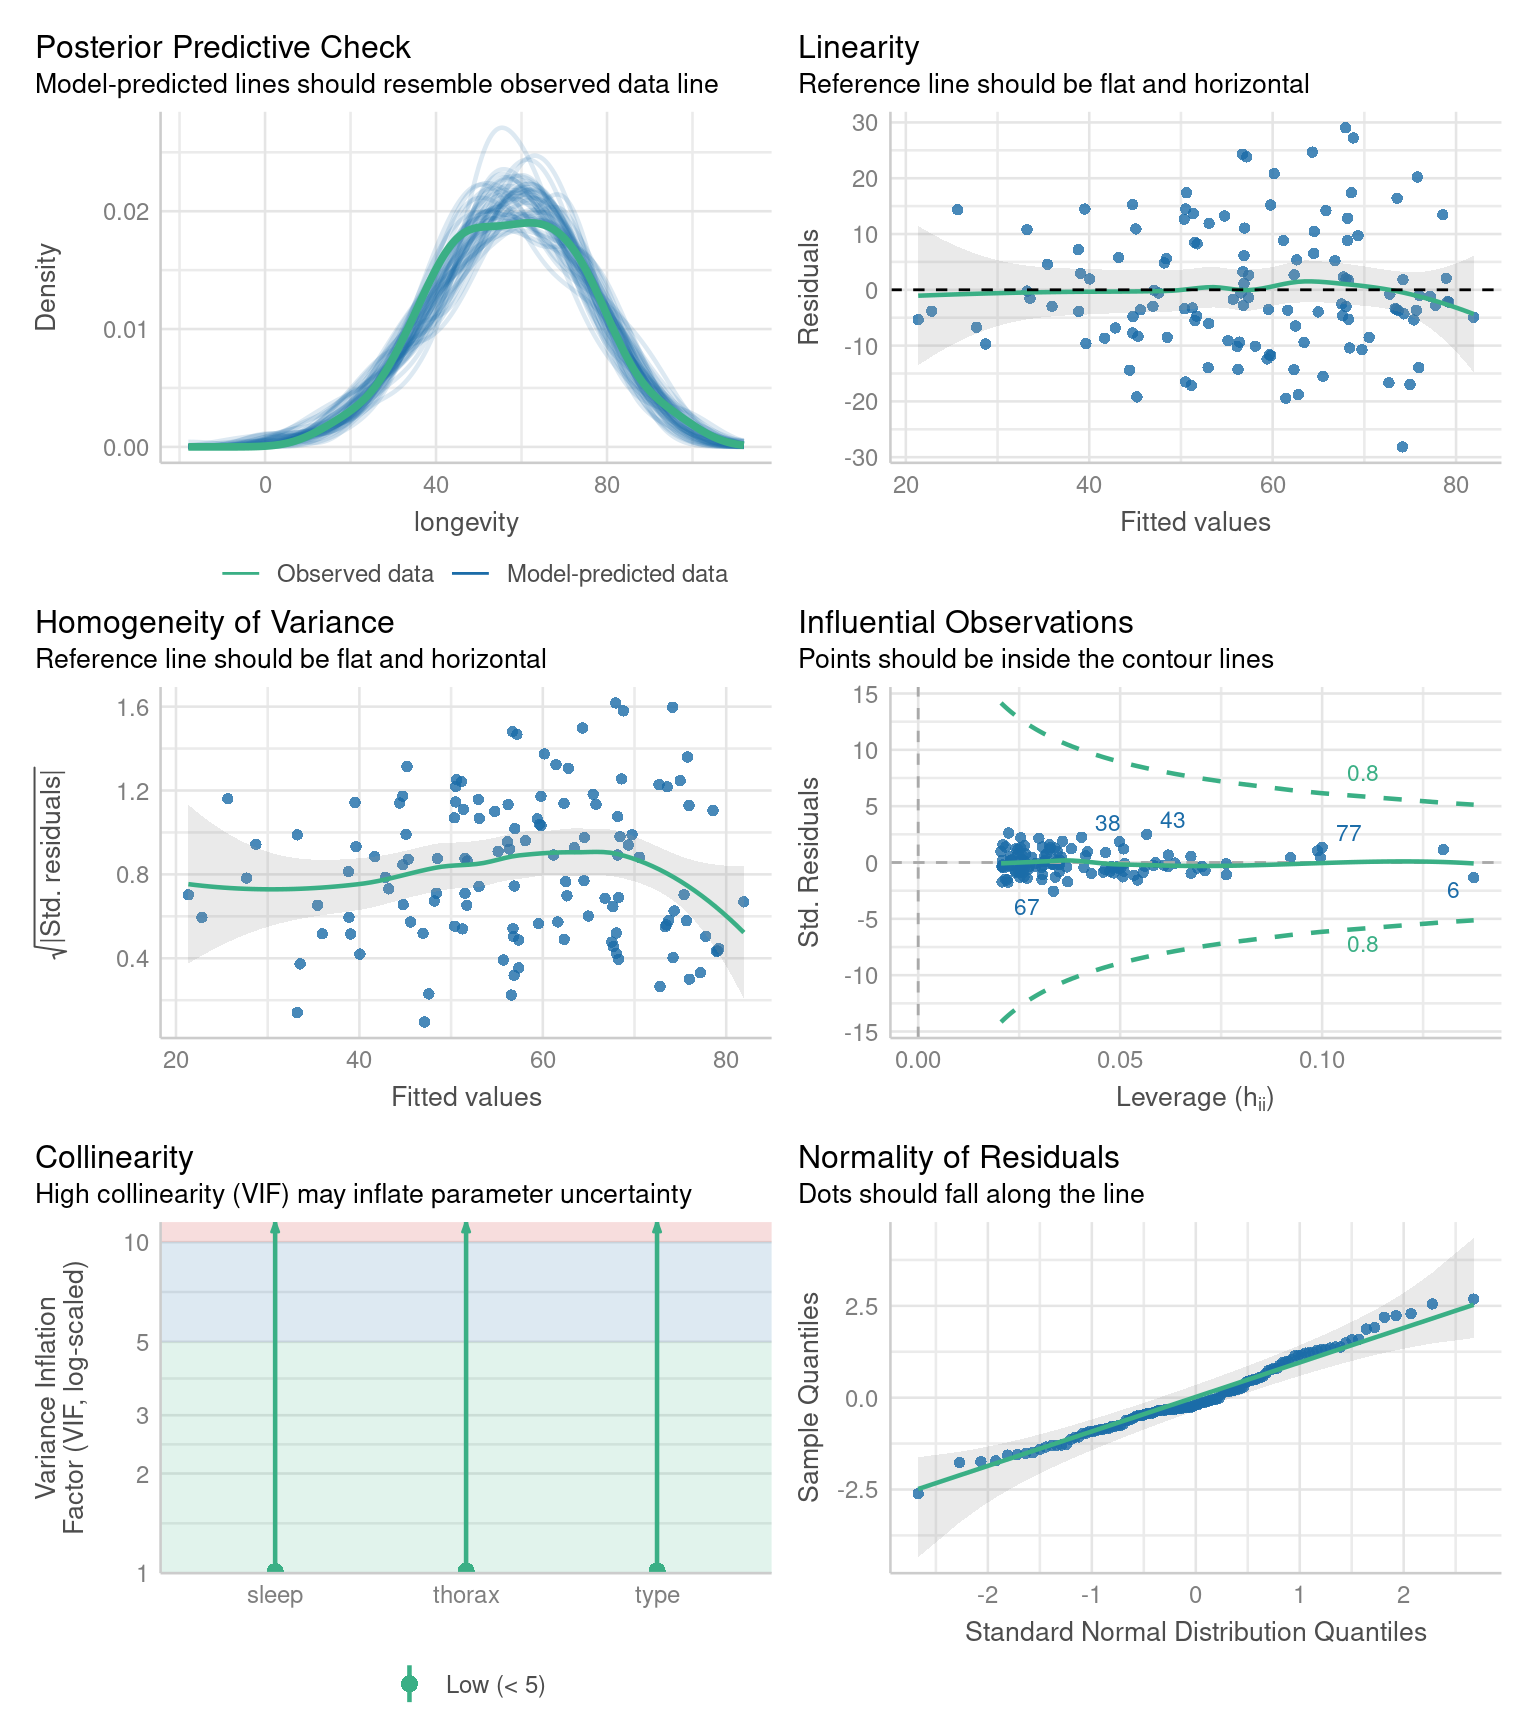
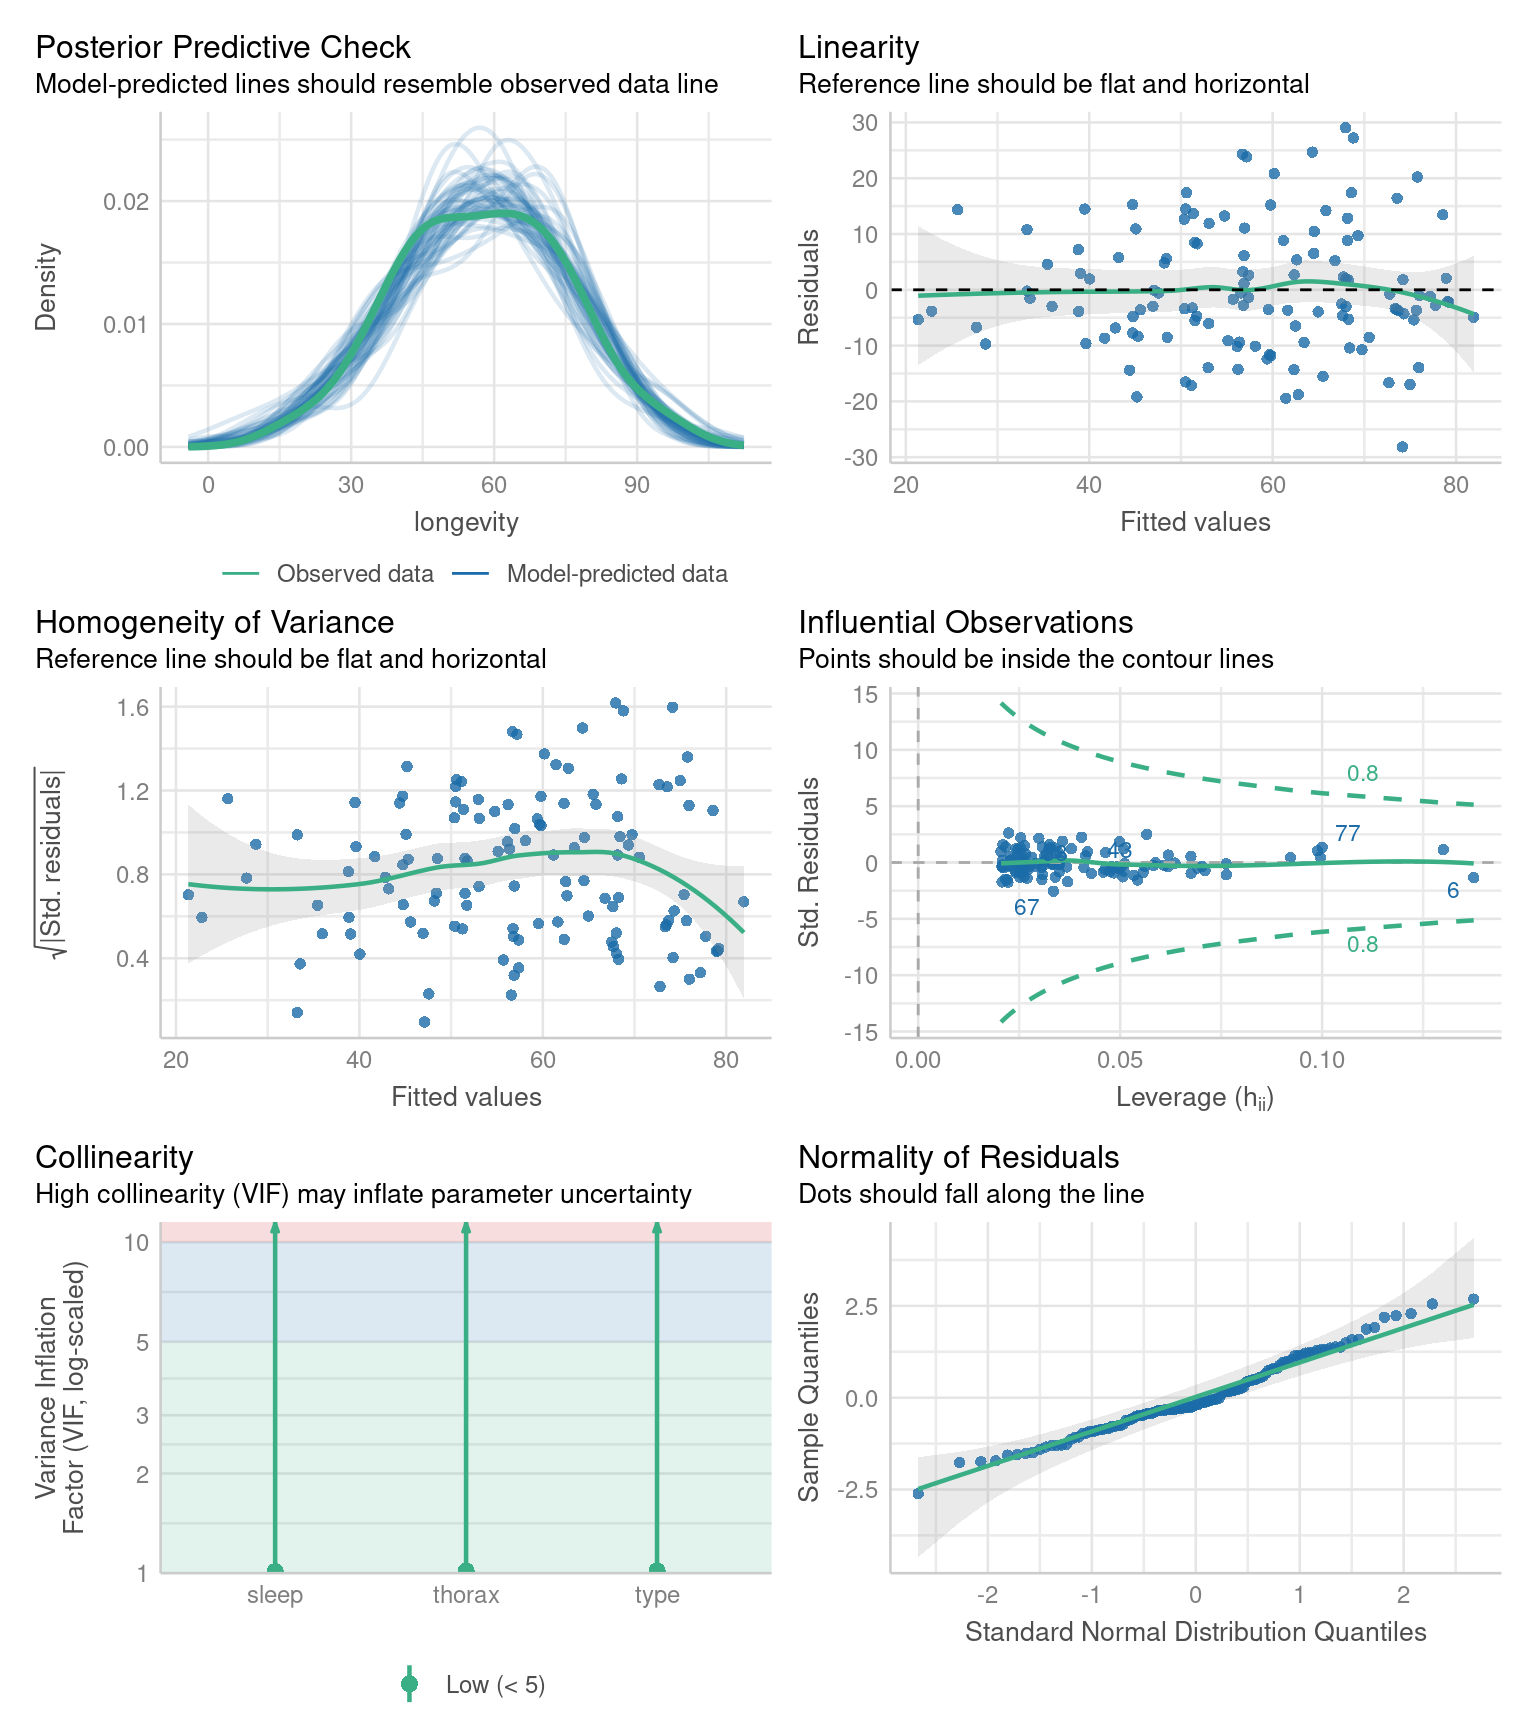
remove unnecessary packages

diff --git a/docs/14-complex-models.html b/docs/14-complex-models.html
@@ -582,12 +582,10 @@ pre > code.sourceCode > span > a:first-child::before { text-decoration: underlin
 <span id="cb1-3"><a href="#cb1-3"></a><span class="fu">library</span>(tidyverse)</span>
 <span id="cb1-4"><a href="#cb1-4"></a><span class="fu">library</span>(GGally)</span>
 <span id="cb1-5"><a href="#cb1-5"></a><span class="fu">library</span>(skimr)</span>
-<span id="cb1-6"><a href="#cb1-6"></a><span class="fu">library</span>(naniar)</span>
-<span id="cb1-7"><a href="#cb1-7"></a><span class="fu">library</span>(mice)</span>
-<span id="cb1-8"><a href="#cb1-8"></a><span class="fu">library</span>(GGally)</span>
-<span id="cb1-9"><a href="#cb1-9"></a><span class="fu">library</span>(ggridges)</span>
-<span id="cb1-10"><a href="#cb1-10"></a><span class="fu">library</span>(performance)</span>
-<span id="cb1-11"><a href="#cb1-11"></a><span class="fu">library</span>(patchwork)</span></code><button title="Copy to Clipboard" class="code-copy-button"><i class="bi"></i></button></pre></div>
+<span id="cb1-6"><a href="#cb1-6"></a><span class="fu">library</span>(GGally)</span>
+<span id="cb1-7"><a href="#cb1-7"></a><span class="fu">library</span>(ggridges)</span>
+<span id="cb1-8"><a href="#cb1-8"></a><span class="fu">library</span>(performance)</span>
+<span id="cb1-9"><a href="#cb1-9"></a><span class="fu">library</span>(patchwork)</span></code><button title="Copy to Clipboard" class="code-copy-button"><i class="bi"></i></button></pre></div>
 </div>
 <section id="designing-a-model" class="level2" data-number="13.1"><h2 data-number="13.1" class="anchored" data-anchor-id="designing-a-model">
 <span class="header-section-number">13.1</span> Designing a Model</h2>
@@ -1254,23 +1252,23 @@ Confidence level used: 0.95 </code></pre>
 <div class="sourceCode cell-code" id="cb28"><pre class="sourceCode numberSource r number-lines code-with-copy"><code class="sourceCode r"><span id="cb28-1"><a href="#cb28-1"></a><span class="fu">library</span>(gtsummary)</span>
 <span id="cb28-2"><a href="#cb28-2"></a><span class="fu">tbl_regression</span>(flyls1)</span></code><button title="Copy to Clipboard" class="code-copy-button"><i class="bi"></i></button></pre></div>
 <div class="cell-output-display">
-<div id="xirvyryaov" style="padding-left:0px;padding-right:0px;padding-top:10px;padding-bottom:10px;overflow-x:auto;overflow-y:auto;width:auto;height:auto;">
-<style>#xirvyryaov table {
+<div id="vjvxwkwnkr" style="padding-left:0px;padding-right:0px;padding-top:10px;padding-bottom:10px;overflow-x:auto;overflow-y:auto;width:auto;height:auto;">
+<style>#vjvxwkwnkr table {
   font-family: system-ui, 'Segoe UI', Roboto, Helvetica, Arial, sans-serif, 'Apple Color Emoji', 'Segoe UI Emoji', 'Segoe UI Symbol', 'Noto Color Emoji';
   -webkit-font-smoothing: antialiased;
   -moz-osx-font-smoothing: grayscale;
 }
 
-#xirvyryaov thead, #xirvyryaov tbody, #xirvyryaov tfoot, #xirvyryaov tr, #xirvyryaov td, #xirvyryaov th {
+#vjvxwkwnkr thead, #vjvxwkwnkr tbody, #vjvxwkwnkr tfoot, #vjvxwkwnkr tr, #vjvxwkwnkr td, #vjvxwkwnkr th {
   border-style: none;
 }
 
-#xirvyryaov p {
+#vjvxwkwnkr p {
   margin: 0;
   padding: 0;
 }
 
-#xirvyryaov .gt_table {
+#vjvxwkwnkr .gt_table {
   display: table;
   border-collapse: collapse;
   line-height: normal;
@@ -1296,12 +1294,12 @@ Confidence level used: 0.95 </code></pre>
   border-left-color: #D3D3D3;
 }
 
-#xirvyryaov .gt_caption {
+#vjvxwkwnkr .gt_caption {
   padding-top: 4px;
   padding-bottom: 4px;
 }
 
-#xirvyryaov .gt_title {
+#vjvxwkwnkr .gt_title {
   color: #333333;
   font-size: 125%;
   font-weight: initial;
@@ -1313,7 +1311,7 @@ Confidence level used: 0.95 </code></pre>
   border-bottom-width: 0;
 }
 
-#xirvyryaov .gt_subtitle {
+#vjvxwkwnkr .gt_subtitle {
   color: #333333;
   font-size: 85%;
   font-weight: initial;
@@ -1325,7 +1323,7 @@ Confidence level used: 0.95 </code></pre>
   border-top-width: 0;
 }
 
-#xirvyryaov .gt_heading {
+#vjvxwkwnkr .gt_heading {
   background-color: #FFFFFF;
   text-align: center;
   border-bottom-color: #FFFFFF;
@@ -1337,13 +1335,13 @@ Confidence level used: 0.95 </code></pre>
   border-right-color: #D3D3D3;
 }
 
-#xirvyryaov .gt_bottom_border {
+#vjvxwkwnkr .gt_bottom_border {
   border-bottom-style: solid;
   border-bottom-width: 2px;
   border-bottom-color: #D3D3D3;
 }
 
-#xirvyryaov .gt_col_headings {
+#vjvxwkwnkr .gt_col_headings {
   border-top-style: solid;
   border-top-width: 2px;
   border-top-color: #D3D3D3;
@@ -1358,7 +1356,7 @@ Confidence level used: 0.95 </code></pre>
   border-right-color: #D3D3D3;
 }
 
-#xirvyryaov .gt_col_heading {
+#vjvxwkwnkr .gt_col_heading {
   color: #333333;
   background-color: #FFFFFF;
   font-size: 100%;
@@ -1378,7 +1376,7 @@ Confidence level used: 0.95 </code></pre>
   overflow-x: hidden;
 }
 
-#xirvyryaov .gt_column_spanner_outer {
+#vjvxwkwnkr .gt_column_spanner_outer {
   color: #333333;
   background-color: #FFFFFF;
   font-size: 100%;
@@ -1390,15 +1388,15 @@ Confidence level used: 0.95 </code></pre>
   padding-right: 4px;
 }
 
-#xirvyryaov .gt_column_spanner_outer:first-child {
+#vjvxwkwnkr .gt_column_spanner_outer:first-child {
   padding-left: 0;
 }
 
-#xirvyryaov .gt_column_spanner_outer:last-child {
+#vjvxwkwnkr .gt_column_spanner_outer:last-child {
   padding-right: 0;
 }
 
-#xirvyryaov .gt_column_spanner {
+#vjvxwkwnkr .gt_column_spanner {
   border-bottom-style: solid;
   border-bottom-width: 2px;
   border-bottom-color: #D3D3D3;
@@ -1410,11 +1408,11 @@ Confidence level used: 0.95 </code></pre>
   width: 100%;
 }
 
-#xirvyryaov .gt_spanner_row {
+#vjvxwkwnkr .gt_spanner_row {
   border-bottom-style: hidden;
 }
 
-#xirvyryaov .gt_group_heading {
+#vjvxwkwnkr .gt_group_heading {
   padding-top: 8px;
   padding-bottom: 8px;
   padding-left: 5px;
@@ -1440,7 +1438,7 @@ Confidence level used: 0.95 </code></pre>
   text-align: left;
 }
 
-#xirvyryaov .gt_empty_group_heading {
+#vjvxwkwnkr .gt_empty_group_heading {
   padding: 0.5px;
   color: #333333;
   background-color: #FFFFFF;
@@ -1455,15 +1453,15 @@ Confidence level used: 0.95 </code></pre>
   vertical-align: middle;
 }
 
-#xirvyryaov .gt_from_md > :first-child {
+#vjvxwkwnkr .gt_from_md > :first-child {
   margin-top: 0;
 }
 
-#xirvyryaov .gt_from_md > :last-child {
+#vjvxwkwnkr .gt_from_md > :last-child {
   margin-bottom: 0;
 }
 
-#xirvyryaov .gt_row {
+#vjvxwkwnkr .gt_row {
   padding-top: 8px;
   padding-bottom: 8px;
   padding-left: 5px;
@@ -1482,7 +1480,7 @@ Confidence level used: 0.95 </code></pre>
   overflow-x: hidden;
 }
 
-#xirvyryaov .gt_stub {
+#vjvxwkwnkr .gt_stub {
   color: #333333;
   background-color: #FFFFFF;
   font-size: 100%;
@@ -1495,7 +1493,7 @@ Confidence level used: 0.95 </code></pre>
   padding-right: 5px;
 }
 
-#xirvyryaov .gt_stub_row_group {
+#vjvxwkwnkr .gt_stub_row_group {
   color: #333333;
   background-color: #FFFFFF;
   font-size: 100%;
@@ -1509,15 +1507,15 @@ Confidence level used: 0.95 </code></pre>
   vertical-align: top;
 }
 
-#xirvyryaov .gt_row_group_first td {
+#vjvxwkwnkr .gt_row_group_first td {
   border-top-width: 2px;
 }
 
-#xirvyryaov .gt_row_group_first th {
+#vjvxwkwnkr .gt_row_group_first th {
   border-top-width: 2px;
 }
 
-#xirvyryaov .gt_summary_row {
+#vjvxwkwnkr .gt_summary_row {
   color: #333333;
   background-color: #FFFFFF;
   text-transform: inherit;
@@ -1527,16 +1525,16 @@ Confidence level used: 0.95 </code></pre>
   padding-right: 5px;
 }
 
-#xirvyryaov .gt_first_summary_row {
+#vjvxwkwnkr .gt_first_summary_row {
   border-top-style: solid;
   border-top-color: #D3D3D3;
 }
 
-#xirvyryaov .gt_first_summary_row.thick {
+#vjvxwkwnkr .gt_first_summary_row.thick {
   border-top-width: 2px;
 }
 
-#xirvyryaov .gt_last_summary_row {
+#vjvxwkwnkr .gt_last_summary_row {
   padding-top: 8px;
   padding-bottom: 8px;
   padding-left: 5px;
@@ -1546,7 +1544,7 @@ Confidence level used: 0.95 </code></pre>
   border-bottom-color: #D3D3D3;
 }
 
-#xirvyryaov .gt_grand_summary_row {
+#vjvxwkwnkr .gt_grand_summary_row {
   color: #333333;
   background-color: #FFFFFF;
   text-transform: inherit;
@@ -1556,7 +1554,7 @@ Confidence level used: 0.95 </code></pre>
   padding-right: 5px;
 }
 
-#xirvyryaov .gt_first_grand_summary_row {
+#vjvxwkwnkr .gt_first_grand_summary_row {
   padding-top: 8px;
   padding-bottom: 8px;
   padding-left: 5px;
@@ -1566,7 +1564,7 @@ Confidence level used: 0.95 </code></pre>
   border-top-color: #D3D3D3;
 }
 
-#xirvyryaov .gt_last_grand_summary_row_top {
+#vjvxwkwnkr .gt_last_grand_summary_row_top {
   padding-top: 8px;
   padding-bottom: 8px;
   padding-left: 5px;
@@ -1576,11 +1574,11 @@ Confidence level used: 0.95 </code></pre>
   border-bottom-color: #D3D3D3;
 }
 
-#xirvyryaov .gt_striped {
+#vjvxwkwnkr .gt_striped {
   background-color: rgba(128, 128, 128, 0.05);
 }
 
-#xirvyryaov .gt_table_body {
+#vjvxwkwnkr .gt_table_body {
   border-top-style: solid;
   border-top-width: 2px;
   border-top-color: #D3D3D3;
@@ -1589,7 +1587,7 @@ Confidence level used: 0.95 </code></pre>
   border-bottom-color: #D3D3D3;
 }
 
-#xirvyryaov .gt_footnotes {
+#vjvxwkwnkr .gt_footnotes {
   color: #333333;
   background-color: #FFFFFF;
   border-bottom-style: none;
@@ -1603,7 +1601,7 @@ Confidence level used: 0.95 </code></pre>
   border-right-color: #D3D3D3;
 }
 
-#xirvyryaov .gt_footnote {
+#vjvxwkwnkr .gt_footnote {
   margin: 0px;
   font-size: 90%;
   padding-top: 4px;
@@ -1612,7 +1610,7 @@ Confidence level used: 0.95 </code></pre>
   padding-right: 5px;
 }
 
-#xirvyryaov .gt_sourcenotes {
+#vjvxwkwnkr .gt_sourcenotes {
   color: #333333;
   background-color: #FFFFFF;
   border-bottom-style: none;
@@ -1626,7 +1624,7 @@ Confidence level used: 0.95 </code></pre>
   border-right-color: #D3D3D3;
 }
 
-#xirvyryaov .gt_sourcenote {
+#vjvxwkwnkr .gt_sourcenote {
   font-size: 90%;
   padding-top: 4px;
   padding-bottom: 4px;
@@ -1634,63 +1632,63 @@ Confidence level used: 0.95 </code></pre>
   padding-right: 5px;
 }
 
-#xirvyryaov .gt_left {
+#vjvxwkwnkr .gt_left {
   text-align: left;
 }
 
-#xirvyryaov .gt_center {
+#vjvxwkwnkr .gt_center {
   text-align: center;
 }
 
-#xirvyryaov .gt_right {
+#vjvxwkwnkr .gt_right {
   text-align: right;
   font-variant-numeric: tabular-nums;
 }
 
-#xirvyryaov .gt_font_normal {
+#vjvxwkwnkr .gt_font_normal {
   font-weight: normal;
 }
 
-#xirvyryaov .gt_font_bold {
+#vjvxwkwnkr .gt_font_bold {
   font-weight: bold;
 }
 
-#xirvyryaov .gt_font_italic {
+#vjvxwkwnkr .gt_font_italic {
   font-style: italic;
 }
 
-#xirvyryaov .gt_super {
+#vjvxwkwnkr .gt_super {
   font-size: 65%;
 }
 
-#xirvyryaov .gt_footnote_marks {
+#vjvxwkwnkr .gt_footnote_marks {
   font-size: 75%;
   vertical-align: 0.4em;
   position: initial;
 }
 
-#xirvyryaov .gt_asterisk {
+#vjvxwkwnkr .gt_asterisk {
   font-size: 100%;
   vertical-align: 0;
 }
 
-#xirvyryaov .gt_indent_1 {
+#vjvxwkwnkr .gt_indent_1 {
   text-indent: 5px;
 }
 
-#xirvyryaov .gt_indent_2 {
+#vjvxwkwnkr .gt_indent_2 {
   text-indent: 10px;
 }
 
-#xirvyryaov .gt_indent_3 {
+#vjvxwkwnkr .gt_indent_3 {
   text-indent: 15px;
 }
 
-#xirvyryaov .gt_indent_4 {
+#vjvxwkwnkr .gt_indent_4 {
   text-indent: 20px;
 }
 
-#xirvyryaov .gt_indent_5 {
+#vjvxwkwnkr .gt_indent_5 {
   text-indent: 25px;
 }
 </style>
